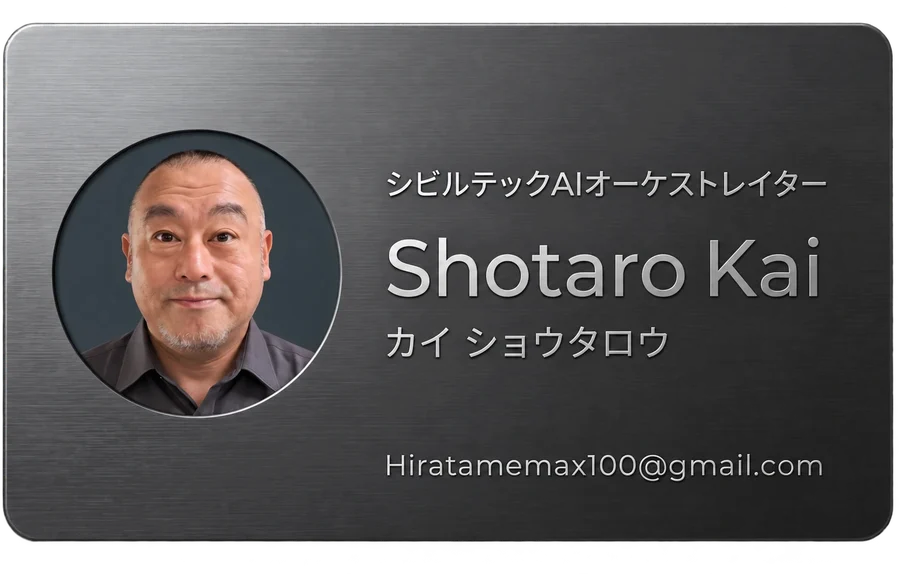
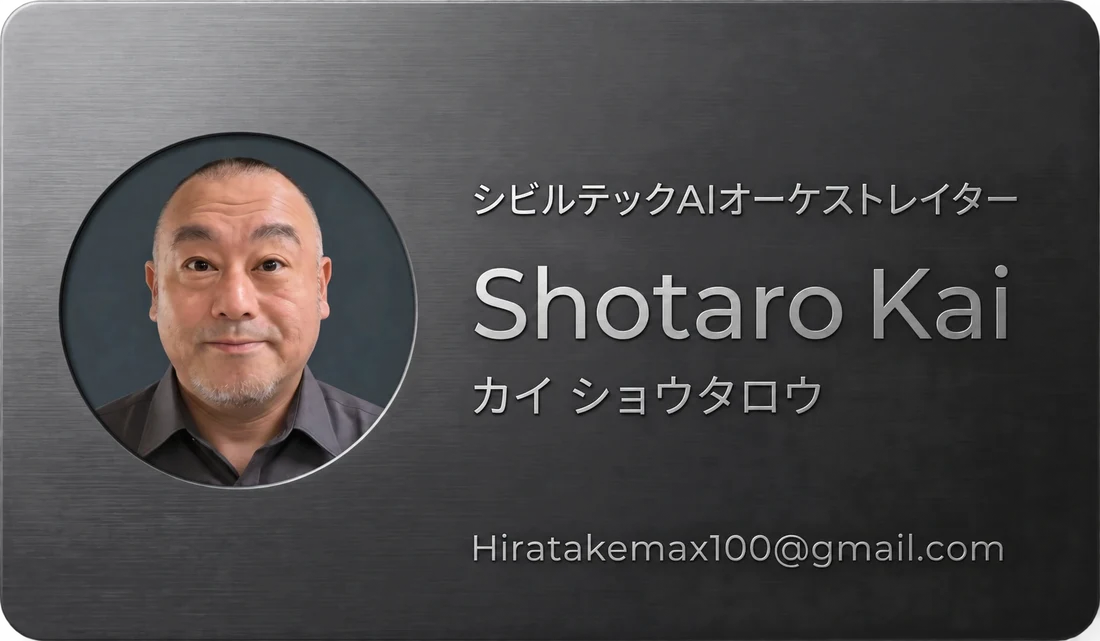
プロフィール：名刺のメールアドレスを修正

diff --git a/profile/index.html b/profile/index.html
@@ -35,7 +35,7 @@ footer{margin-top:auto;padding-top:36px;color:#6f858d;font-size:12px}
 <body>
   <h1>Profile</h1>
   <div class="namecard" id="nc" role="button" tabindex="0" aria-label="名刺（押すとめくれてプロフィールを表示）">
-    <div class="ncInner" id="ncInner"><img id="ncImg" src="card.webp" width="900" height="574" alt="名刺：シビルテックAIオーケストレイター Shotaro Kai（カイ ショウタロウ）"><div class="ncShine" id="ncShine"></div></div>
+    <div class="ncInner" id="ncInner"><img id="ncImg" src="card.webp?v=2" width="1100" height="641" alt="名刺：シビルテックAIオーケストレイター Shotaro Kai（カイ ショウタロウ）"><div class="ncShine" id="ncShine"></div></div>
     <div class="ncDots"><i class="on"></i><i></i><i></i></div>
     <div class="ncHint">タップでめくれます</div>
   </div>
@@ -51,7 +51,7 @@ footer{margin-top:auto;padding-top:36px;color:#6f858d;font-size:12px}
 <script>
 (()=>{
   const faces=[
-    {src:"card.webp",w:900,h:574,wide:false,alt:"名刺：シビルテックAIオーケストレイター Shotaro Kai（カイ ショウタロウ）"},
+    {src:"card.webp?v=2",w:1100,h:641,wide:false,alt:"名刺：シビルテックAIオーケストレイター Shotaro Kai（カイ ショウタロウ）"},
     {src:"prof1.webp",w:1100,h:641,wide:true,alt:"プロフィール 1/2：1997 工業高校在学中、独学で3次元グラフィックスの研究を開始。1999 東京都で、日本IBM本社IT関連部門の部長に1年間師事。2003 日向市の株式会社内山建設在籍時、「現場を全て3D化して管理する」という概念を考案。表彰され、建設新聞などに掲載。2006 現場事務所を太陽光発電で運営するシステムを構築。2016 九州建設マネジメントセンターよりICT専用機を特別に貸与される。"},
     {src:"prof2.webp",w:1100,h:641,wide:true,alt:"プロフィール 2/2：2018 自費でドローン2台を購入し、80億円の現場で現場測量・写真管理を実施。2022 宮崎河川国道事務所でPPP業務として日南油津道路を担当。2025 第8回インフラメンテナンス大賞「国土交通省優秀賞」受賞。2026 シビルテックAIオーケストレイターとして、毎月10本以上のアプリを制作。"}
   ];
